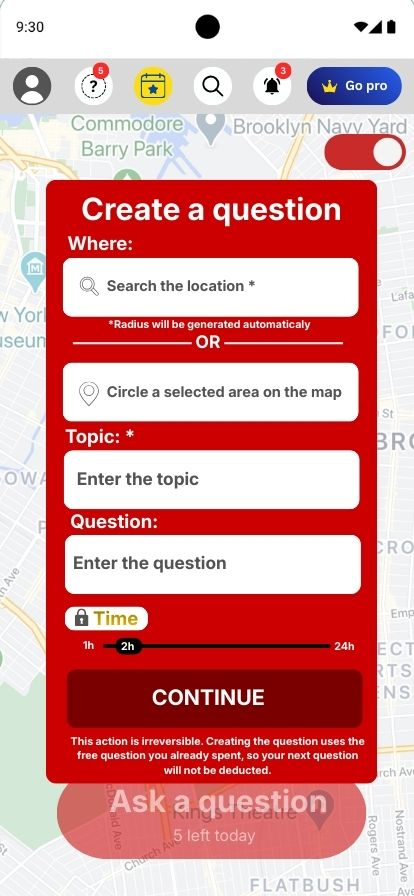
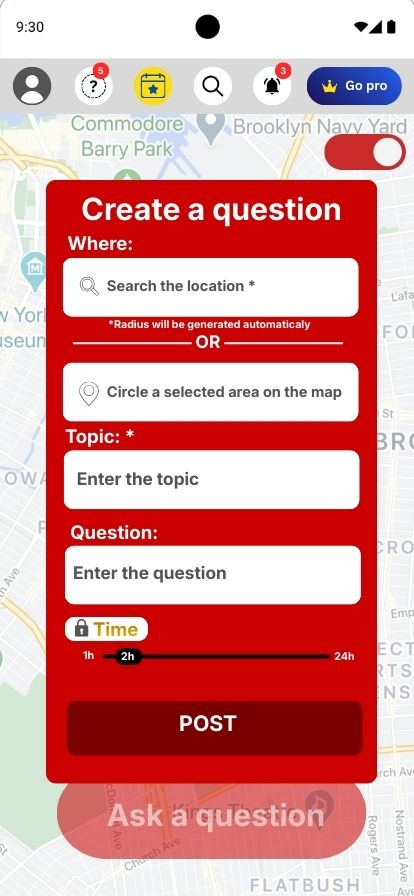
fix: final mockup version

Changed region(s): [[0.1449, 0.5625, 0.8986, 0.9375]]

diff --git a/docs/Sprint 0/mockups.md b/docs/Sprint 0/mockups.md
@@ -29,6 +29,7 @@ This document contains the visual prototypes for the user interface of our appli
 
 ## **US-08: Create question**
 ![](images/mockups/US-08_Create_question.jpg)
+![](images/mockups/US-08.1_Add_after_creating_a_question.jpg)
 
 ## **US-09: Answer questions**
 ![](images/mockups/US-09_Answer_questions.jpg)
@@ -152,6 +153,7 @@ Desirable Stories Post-MVP - Could Have
 
 ## **US-45: Recurring events**
 ![](images/mockups/US-45_Recurring-events.jpg)
+![](images/mockups/US-45.1Highlight_event_with_budget.jpg)
 
 ## **US-46: Business dashboard**
 ![](images/mockups/US-46_Business_dashboard.jpg)
